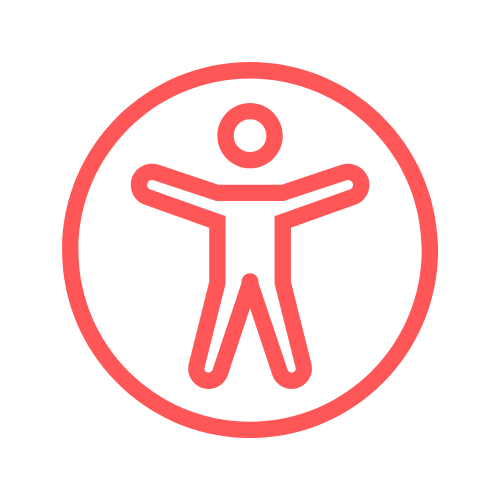
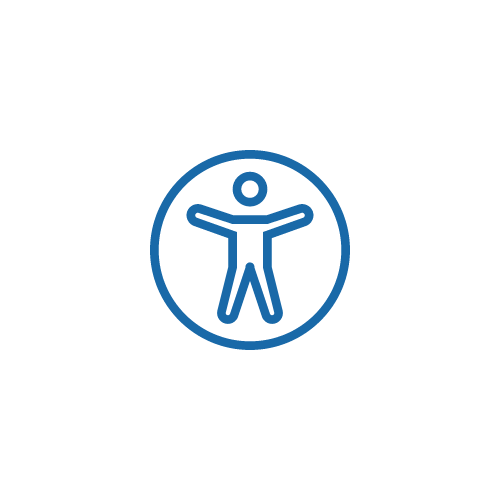
Design updates accross all componnets and added new client

Changed region(s): [[0.12, 0.12, 0.9, 0.9]]

diff --git a/src/components/Hero.js b/src/components/Hero.js
@@ -1,5 +1,5 @@
 import React from "react";
-import hero from "../hero-img1.png";
+import hero from "../yellow.jpg";
 import heroBackground from "../hero-background.png"
 import Services from "./Services"
 import Clients from "../pages/clients"
@@ -24,27 +24,27 @@ export default function Hero(props) {
 
       <div className="hero-container">
         <h1 className="main-h1">A Long Beach Web Design and e-commerce Studio</h1>
-
+        {/* <h2>Here to help your business<br></br>stand out from the crowd</h2>
+        <p>
+          We’ve created a wide variety of online experiences. Whether it’s an
+          e-commerce store with Shopify or Wordpress, an informational website
+          or mini-site/landing page, lead generator or other custom web apps to
+          help your business processes automate tasks, we've been there - from
+          start to finish. We'll create a strategy to best target your audience,
+          to reach them and to achieve your goals.
+        </p> */}
         {/* <img src={heroBackground} alt="hero background" /> */}
 
         {/* <div className="hero-div">
-          <div className="col-6">
-            <h2>Here to help your business<br></br>stand out from the crowd</h2>
+          <div className="">
 
           </div>
-          <p>
-            We’ve created a wide variety of online experiences. Whether it’s an
-            e-commerce store with Shopify or Wordpress, an informational website
-            or mini-site/landing page, lead generator or other custom web apps to
-            help your business processes automate tasks, we've been there - from
-            start to finish. We'll create a strategy to best target your audience,
-            to reach them and to achieve your goals.
-        </p>
+       
         </div> */}
 
 
         {/* bubble effect */}
-        {/* <div id="background-wrap">
+        <div id="background-wrap">
           <div class="bubble x1"></div>
           <div class="bubble x2"></div>
           <div class="bubble x3"></div>
@@ -55,7 +55,7 @@ export default function Hero(props) {
           <div class="bubble x8"></div>
           <div class="bubble x9"></div>
           <div class="bubble x10"></div>
-        </div> */}
+        </div>
 
         {/* <div className="">
           <img src={hero} alt="hero image" className="img-fluid" />

diff --git a/src/App.css b/src/App.css
@@ -78,7 +78,7 @@ p {
 }
 
 .container {
-  /* display: flex; */
+  display: flex;
   margin-top: 3rem;
   width: 100%;
   /* background-image: url("heroBackground.png") no-repeat;  */
@@ -92,8 +92,8 @@ p {
 width: 100%
 }
 .main-h1 {
-  color: white;
-  font-size: 2.4rem;
+  color: #1969a8;
+  font-size: 2rem;
   overflow: hidden; /* Ensures the content is not revealed until the animation */
   border-right: .15em solid #ff5757; /* The typwriter cursor */
   white-space: nowrap; /* Keeps the content on a single line */
@@ -116,14 +116,14 @@ width: 100%
   50% { border-color: #febd01; }
 }
 
-
+/* 
 .hero-div {
   display: flex;
   align-items: center;
   padding: 3rem 0 4rem 0;
   text-align: left;
-  /* border-bottom: #febd01 solid .1rem */
-}
+  border-bottom: #febd01 solid .1rem
+} */
 
 .btn {
   background-color: #1969a8;
@@ -206,14 +206,17 @@ width: 100%
 }
 
 .clients-container {
-  display: flex;
+  /* display: flex; */
   justify-content: center;
   margin-top: 3rem;
+  text-align: center;
 }
 
 .clients {
-  display: flex;
-  flex-direction: column;
+  /* display: flex;
+  flex-direction: column; */
+  margin: 3rem;
+  padding: 3rem;
 }
 
 .clients a {

diff --git a/src/pages/clients.js b/src/pages/clients.js
@@ -1,6 +1,7 @@
 import React, { useState } from 'react';
 import barrera from '../barrera-logo.jpg'
 import healthy from '../healthy.png'
+import pcCoaching from '../pc-coaching.png'
 
 export default function Clients(props) {
     const [title, setTitle] = useState('');
@@ -11,13 +12,18 @@ export default function Clients(props) {
 
     return (
         <div className="clients-container">
+            <h3>Recent Clients</h3>
+
             <div className="clients">
-                <h3>These guys would recommend us</h3>
                 <a href="https://www.barrerafinancial.com/" target="_blank">
                     <img src={barrera} alt="barrera logo" className="img-fluid" />
                 </a>
                 <a href="https://icreatehealthy.com/" target="_blank">
                     <img src={healthy} alt="I create healthy logo" className="img-fluid" />
+
+                </a>
+                <a href="https://premiumcoachingsem.wixsite.com/my-site/" target="_blank">
+                    <img src={pcCoaching} alt="PC Coaching logo" className="img-fluid" />
 
                 </a>
                 <div>{title}</div>

diff --git a/src/components/Services.js b/src/components/Services.js
@@ -1,20 +1,20 @@
 import React from "react";
-import web from "../web.png";
-import growth from "../growth.png";
+import web from "../web-icon.png";
+import eComm from "../ecomm-icon.png";
 import access from "../access.png";
 
 export default function Services() {
   return (
     <div className="services-container">
-      <h1>-the Services</h1>
+      <h1 style={{ 'color': 'black' }}>-the Services</h1>
       <div>
         <img src={web} alt="Web Icon" className="img-fluid" />
-        <img src={growth} alt="growth Icon" className="img-fluid" />
+        <img src={eComm} alt="growth Icon" className="img-fluid" />
         <img src={access} alt="accessibilty Icon" className="img-fluid" />
       </div>
       <div className="services-web">
         <div>
-          <h3 className="h3">Web Design & Development</h3>
+          <h3 className="h3" style={{ color: '' }}>Web Design & Development</h3>
           <p>
             Share blog posts, products, or promotions with your customers. Use
             this text to describe products, share details on availability and

diff --git a/src/App.js b/src/App.js
@@ -34,16 +34,20 @@ const SectionWipes2Styled = styled.div`
   }
   
   .panel.blue {
-    background-color: black;
-    opacity: 0.5;
+    /* background-color: black; */
+    /* opacity: 0.5; */
+  background-image: url("../yellow.jpg") no-repeat; 
+
+    
   }
   
   .panel.yellow {
-    background-color: #febd01;
+    background-color: white;
+   
   }
   
   .panel.red {
-    background-color: #ff5757;
+    background-color: white;
   }
   
   .panel.bordeaux {
